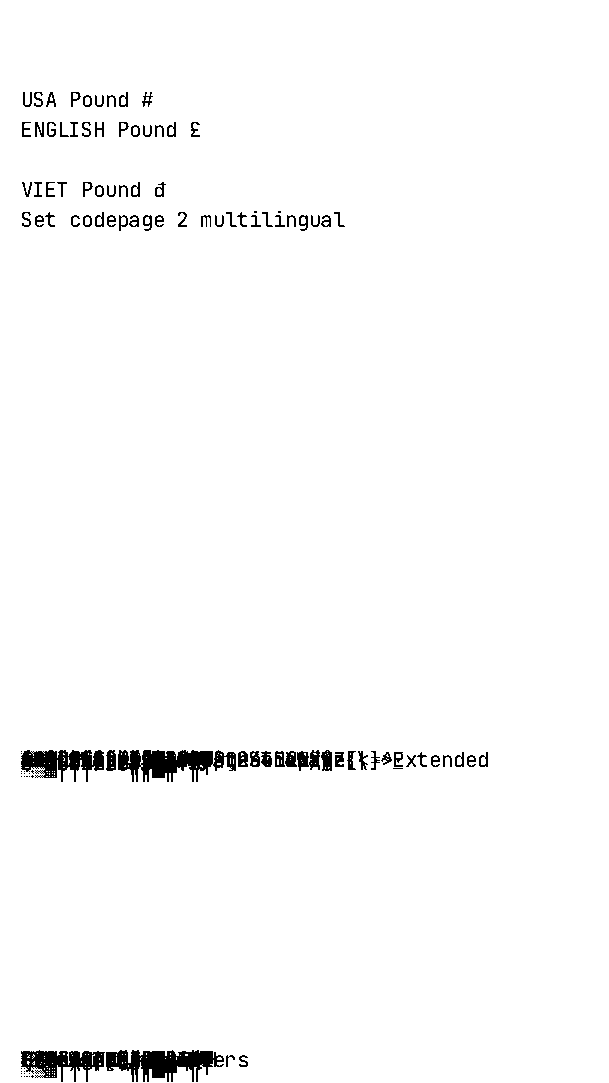
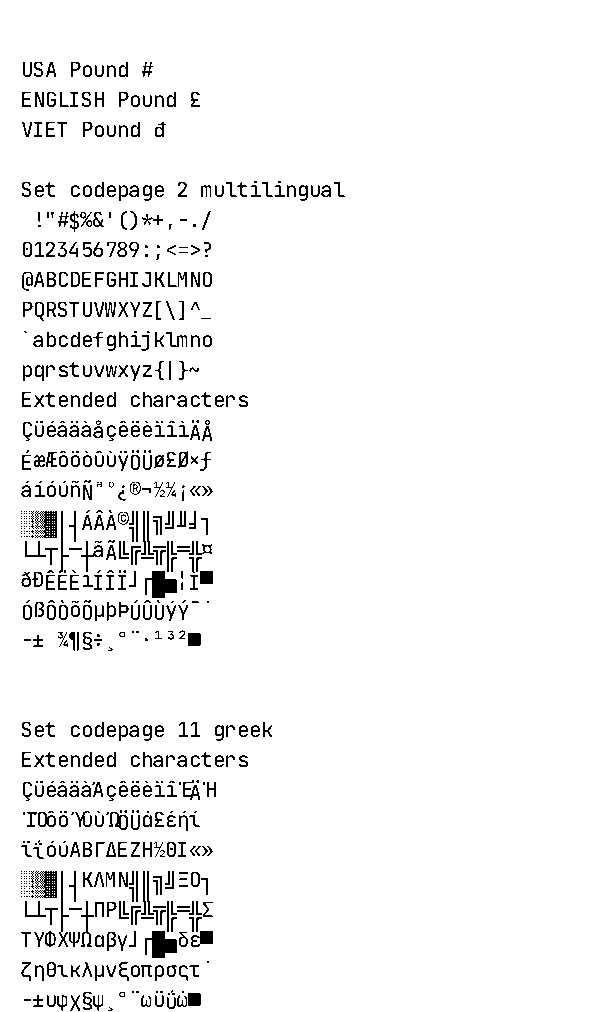
Rendering adjustments

Changed region(s): [[0.0312, 0.0613, 0.5616, 0.6433], [0.0312, 0.6739, 0.78, 1.0], [0.312, 0.2451, 0.3432, 0.3063]]

diff --git a/sample_files/out/code_pages.thermal.html b/sample_files/out/code_pages.thermal.html
@@ -85,6 +85,6 @@
     </style>
 </head>
 <body>
-    <section style="max-width: 609px; padding-left: 20px; padding-right: 20px;"><article><div class='cnt al'><span class=''>USA Pound #</span><span class=''>ENGLISH Pound £</span><span class=''>VIET Pound đ</span><span class=''>Set codepage 2 multilingual</span><span class=''> !"#$%&'()*+,-./</span><span class=''>0123456789:;<=>?</span><span class=''>@ABCDEFGHIJKLMNO</span><span class=''>PQRSTUVWXYZ[\]^_</span><span class=''>`abcdefghijklmno</span><span class=''>pqrstuvwxyz{|}~</span><span class=''>Extended characters</span><span class=''>ÇüéâäàåçêëèïîìÄÅ</span><span class=''>ÉæÆôöòûùÿÖÜø£Ø×ƒ</span><span class=''>áíóúñÑªº¿®¬½¼¡«»</span><span class=''>░▒▓│┤ÁÂÀ©╣║╗╝╜╛┐</span><span class=''>└┴┬├─┼ãÃ╚╔╩╦╠═╬¤</span><span class=''>ðÐÊËÈıÍÎÏ┘┌█▄¦Ì▀</span><span class=''>ÓßÔÒõÕµþÞÚÛÙýÝ¯´</span><span class=''>-±‗¾¶§÷¸°¨·¹³²■ </span><span class=''>Set codepage 11 greek</span><span class=''>Extended characters</span><span class=''>ÇüéâäàΆçêëèïîΈÄΉ</span><span class=''>ΊΌôöΎûùΏÖÜά£έήί</span><span class=''>ϊΐόύΑΒΓΔΕΖΗ½ΘΙ«»</span><span class=''>░▒▓│┤ΚΛΜΝ╣║╗╝ΞΟ┐</span><span class=''>└┴┬├─┼ΠΡ╚╔╩╦╠═╬Σ</span><span class=''>ΤΥΦΧΨΩαβγ┘┌█▄δε▀</span><span class=''>ζηθικλμνξοπρσςτ´</span><span class=''>±υφχ§ψ¸°¨ωϋΰώ■ </span></div></article></section>
+    <section style="max-width: 609px; padding-left: 20px; padding-right: 20px;"><article><div class='cnt al'><span class=''>USA Pound #</span><span class=''></span><br/><span class=''></span><span class=''>ENGLISH Pound £</span><span class=''></span><br/><span class=''></span><span class=''>VIET Pound đ</span><span class=''></span><br/><span class=''></span><span class=''></span><br/><span class=''></span><span class=''>Set codepage 2 multilingual</span><span class=''></span><br/><span class=''></span><span class=''> !"#$%&'()*+,-./</span><span class=''></span><br/><span class=''></span><span class=''>0123456789:;<=>?</span><span class=''></span><br/><span class=''></span><span class=''>@ABCDEFGHIJKLMNO</span><span class=''></span><br/><span class=''></span><span class=''>PQRSTUVWXYZ[\]^_</span><span class=''></span><br/><span class=''></span><span class=''>`abcdefghijklmno</span><span class=''></span><br/><span class=''></span><span class=''>pqrstuvwxyz{|}~</span><span class=''></span><br/><span class=''></span><span class=''>Extended characters</span><span class=''></span><br/><span class=''></span><span class=''>ÇüéâäàåçêëèïîìÄÅ</span><span class=''></span><br/><span class=''></span><span class=''>ÉæÆôöòûùÿÖÜø£Ø×ƒ</span><span class=''></span><br/><span class=''></span><span class=''>áíóúñÑªº¿®¬½¼¡«»</span><span class=''></span><br/><span class=''></span><span class=''>░▒▓│┤ÁÂÀ©╣║╗╝╜╛┐</span><span class=''></span><br/><span class=''></span><span class=''>└┴┬├─┼ãÃ╚╔╩╦╠═╬¤</span><span class=''></span><br/><span class=''></span><span class=''>ðÐÊËÈıÍÎÏ┘┌█▄¦Ì▀</span><span class=''></span><br/><span class=''></span><span class=''>ÓßÔÒõÕµþÞÚÛÙýÝ¯´</span><span class=''></span><br/><span class=''></span><span class=''>-±‗¾¶§÷¸°¨·¹³²■ </span><span class=''></span><br/><span class=''></span><span class=''></span><br/><span class=''></span><span class=''></span><br/><span class=''></span><span class=''>Set codepage 11 greek</span><span class=''></span><br/><span class=''></span><span class=''>Extended characters</span><span class=''></span><br/><span class=''></span><span class=''>ÇüéâäàΆçêëèïîΈÄΉ</span><span class=''></span><br/><span class=''></span><span class=''>ΊΌôöΎûùΏÖÜά£έήί</span><span class=''></span><br/><span class=''></span><span class=''>ϊΐόύΑΒΓΔΕΖΗ½ΘΙ«»</span><span class=''></span><br/><span class=''></span><span class=''>░▒▓│┤ΚΛΜΝ╣║╗╝ΞΟ┐</span><span class=''></span><br/><span class=''></span><span class=''>└┴┬├─┼ΠΡ╚╔╩╦╠═╬Σ</span><span class=''></span><br/><span class=''></span><span class=''>ΤΥΦΧΨΩαβγ┘┌█▄δε▀</span><span class=''></span><br/><span class=''></span><span class=''>ζηθικλμνξοπρσςτ´</span><span class=''></span><br/><span class=''></span><span class=''>±υφχ§ψ¸°¨ωϋΰώ■ </span><span class=''></span><br/><span class=''></span></div></article></section>
 </body>
 </html>

diff --git a/thermal_renderer/src/image_renderer/thermal_image.rs b/thermal_renderer/src/image_renderer/thermal_image.rs
@@ -153,7 +153,7 @@ impl ThermalImage {
 
     pub fn draw_text(&mut self, mut layout: TextLayout) -> (u32, u32) {
         let mut temp_x = 0u32;
-        let width = layout.w;
+        let width = layout.max_w;
         let newline = Vec::<(&TextSpan, String, u32)>::new();
         let mut lines = vec![newline.clone()];
 
@@ -162,28 +162,6 @@ impl ThermalImage {
             let words = WordSeparator::UnicodeBreakProperties.find_words(span.text.as_str());
 
             for word in words {
-                if word.word.contains('\t') {
-                    let mut tab_len = layout.tab_len * self.char_width(span);
-                    while tab_len < temp_x {
-                        tab_len += tab_len;
-                    }
-                    if tab_len < layout.w {
-                        temp_x = tab_len
-                    }
-                    continue;
-                }
-
-                if word.word.contains('\r') {
-                    temp_x = 0;
-                    continue;
-                }
-
-                if word.word.contains('\n') {
-                    lines.push(newline.clone());
-                    temp_x = 0;
-                    continue;
-                }
-
                 let word_len: u32 = (word.word.len() + word.whitespace.len()) as u32;
                 if word_len * char_width <= width - temp_x {
                     //Word fits on current line
@@ -200,7 +178,7 @@ impl ThermalImage {
                     for broke in broken {
                         let broke_word_len =
                             broke.word.len() as f32 + broke.whitespace.len() as f32;
-                        if layout.w as f32 - (broke_word_len * char_width as f32)
+                        if layout.max_w as f32 - (broke_word_len * char_width as f32)
                             < char_width as f32
                         {
                             lines.push(newline.clone());
@@ -236,9 +214,6 @@ impl ThermalImage {
 
         let mut new_x = layout.x;
         let mut new_y = layout.y;
-        let mut line_no = 0;
-
-        print!("Line count {}", lines.len());
 
         for line in lines.into_iter() {
             let line_height_mult = 1u32;
@@ -267,21 +242,40 @@ impl ThermalImage {
             }
 
             for word in &line {
+                if word.1.contains('\t') {
+                    let mut tab_len = layout.tab_len * self.char_width(word.0);
+                    while tab_len < temp_x {
+                        tab_len += tab_len;
+                    }
+                    if tab_len < layout.max_w {
+                        new_x += tab_len;
+                    }
+                    continue;
+                }
+
+                if word.1.contains('\r') {
+                    new_x = 0;
+                    continue;
+                }
+
+                if word.1.eq("\n") {
+                    //TODO should be using an offset value
+                    
+                    new_y += layout.line_height;
+                    new_x = layout.base_x;
+                    continue;
+                }
+
+                println!("Render word '{}' at x{}y{}", word.1.as_str(), new_x, new_y);
                 let (w, _) = self.render_word(new_x, new_y, word.1.as_str(), word.0);
                 new_x += w;
             }
-            new_x = layout.x;
-            if line_no > 0 {
-                new_y += layout.line_height * line_height_mult;
-            }
-            line_no += 1;
         }
 
         (new_x as u32, new_y as u32)
     }
 
     pub fn render_word(&mut self, x: u32, y: u32, text: &str, span: &TextSpan) -> (u32, u32) {
-        println!("Render word x{} y{} {}", x, y, text);
         let font = self.get_font(span);
         let font_size = span.size as f32;
         let font_metrics = font.horizontal_line_metrics(font_size).unwrap();
@@ -479,12 +473,14 @@ impl ThermalImage {
         invert: bool,
         multiply: bool,
     ) -> bool {
+        println!("Put pixels x{} y{}",x,y);
         let mut cur_x = x;
         let mut cur_y = y;
 
         //Out of bounds
         let exceeds_w = x >= self.width;
         let exceeds_h = y >= self.get_height();
+        
 
         //Completely out of bounds, unrenderable
         if exceeds_w || (exceeds_h && !self.auto_grow) {

diff --git a/thermal_renderer/src/renderer.rs b/thermal_renderer/src/renderer.rs
@@ -7,25 +7,16 @@ use thermal_parser::graphics::{
 pub trait CommandRenderer {
     //default implementation
     fn process_command(&mut self, context: &mut Context, command: &Command) {
-        if command.kind != CommandType::Text {
-            //Before any non text command, we call this to notify
-            // a possible end of a continuous list of text spans
-            self.text_span_collect(context, TextLayout::new(context));
-        }
-
         match command.kind {
             CommandType::Text => {
                 let maybe_text = command.handler.get_text(command, context);
                 if let Some(text) = maybe_text {
-                    if text.text.eq("\n") {
-                        context.newline(1);
-                        self.text_newline(context);
-                    } else {
-                        self.text_span(context, text);
-                    }
+                    self.text_span(context, text);
                 }
             }
             CommandType::Graphics => {
+                self.text_span_collect(context, TextLayout::new(context));
+                
                 let maybe_gfx = command.handler.get_graphics(command, context);
 
                 if let Some(gfx) = maybe_gfx {
@@ -83,8 +74,12 @@ pub trait CommandRenderer {
 
                 match device_command {
                     DeviceCommand::BeginPrint => self.begin_render(context),
-                    DeviceCommand::EndPrint => self.end_render(context),
+                    DeviceCommand::EndPrint => {
+                        self.text_span_collect(context, TextLayout::new(context));
+                        self.end_render(context)
+                    },
                     DeviceCommand::FeedLine(num_lines) => {
+                        self.text_span_collect(context, TextLayout::new(context));
                         let advance = context.line_height_pixels() * *num_lines as u32;
 
                         if context.page_mode.enabled {
@@ -94,18 +89,15 @@ pub trait CommandRenderer {
                         }
                     }
                     DeviceCommand::Feed(num) => {
-                        let advance = context.motion_unit_y_pixels() * *num as u32;
-
-                        if context.page_mode.enabled {
-                            context.page_mode.render_area.y += advance;
-                        } else {
-                            context.graphics.render_area.y += advance;
-                        }
+                        self.text_span_collect(context, TextLayout::new(context));
+                        context.newline(*num as u32);
                     }
                     DeviceCommand::FullCut | DeviceCommand::PartialCut => {
+                        self.text_span_collect(context, TextLayout::new(context));
                         context.graphics.render_area.y += context.line_height_pixels() * 2;
                     }
                     DeviceCommand::BeginPageMode => {
+                        self.text_span_collect(context, TextLayout::new(context));
                         context.page_mode.enabled = true;
                         self.page_begin(context);
                     }
@@ -114,6 +106,7 @@ pub trait CommandRenderer {
                         context.page_mode.enabled = false
                     }
                     DeviceCommand::PrintPageMode => {
+                        self.text_span_collect(context, TextLayout::new(context));
                         self.page_print(context);
 
                         //Advance the y since a page is being rendered
@@ -121,6 +114,7 @@ pub trait CommandRenderer {
                         context.graphics.render_area.x = 0;
                     }
                     DeviceCommand::ChangePageModeDirection => {
+                        self.text_span_collect(context, TextLayout::new(context));
                         let (rotation, width, height) = context.page_mode.apply_logical_area();
                         self.page_area_changed(context, rotation, width, height);
                     }

diff --git a/thermal_parser/src/graphics.rs b/thermal_parser/src/graphics.rs
@@ -1,9 +1,10 @@
+use std::fmt;
 use crate::context::{
     Context, Font, HumanReadableInterface, TextJustify, TextStrikethrough, TextUnderline,
 };
 use std::fmt::{Debug, Formatter};
 
-#[derive(Clone, Debug)]
+#[derive(Clone)]
 pub struct TextSpan {
     pub font: Font,
     pub size: u32,
@@ -19,14 +20,14 @@ pub struct TextSpan {
     pub justify: TextJustify,
 }
 
-#[derive(Debug)]
 pub struct TextLayout {
     pub spans: Vec<TextSpan>,
     pub line_height: u32,
     pub tab_len: u32,
     pub x: u32,
     pub y: u32,
-    pub w: u32,
+    pub max_w: u32,
+    pub base_x: u32
 }
 
 impl TextLayout {
@@ -37,8 +38,26 @@ impl TextLayout {
             tab_len: context.text.tab_len as u32,
             x: context.get_x(),
             y: context.get_y(),
-            w: context.get_width(),
+            max_w: context.get_width(),
+            base_x: context.get_base_x(),
         }
+    }
+}
+
+impl fmt::Debug for TextLayout {
+    fn fmt(&self, f: &mut fmt::Formatter<'_>) -> fmt::Result {
+        let mut text: Vec<String> = vec![];
+
+        for span in &self.spans {
+            text.push(span.text.replace("\n", "{LF}"));
+        }
+
+        f.debug_struct("TextLayout")
+            .field("x", &self.x)
+            .field("y", &self.y)
+            .field("w", &self.max_w)
+            .field("spans", &text)
+            .finish()
     }
 }
 
@@ -72,6 +91,14 @@ impl TextSpan {
             upside_down: style.upside_down,
             justify: context.text.justify.clone(),
         }
+    }
+}
+
+impl fmt::Debug for TextSpan {
+    fn fmt(&self, f: &mut fmt::Formatter<'_>) -> fmt::Result {
+        f.debug_struct("Span")
+            .field("text", &self.text.replace("\n", "{LF}"))
+            .finish()
     }
 }
 

diff --git a/thermal_renderer/src/image_renderer/mod.rs b/thermal_renderer/src/image_renderer/mod.rs
@@ -145,8 +145,9 @@ impl CommandRenderer for ImageRenderer {
         if self.spans.is_empty() {
             return;
         }
-
+        
         mem::swap(&mut layout.spans, &mut self.spans);
+        println!("Push layout {:?}", layout);
         let line_height = layout.line_height;
         let layout_x = layout.x;
         let layout_y = layout.y;
